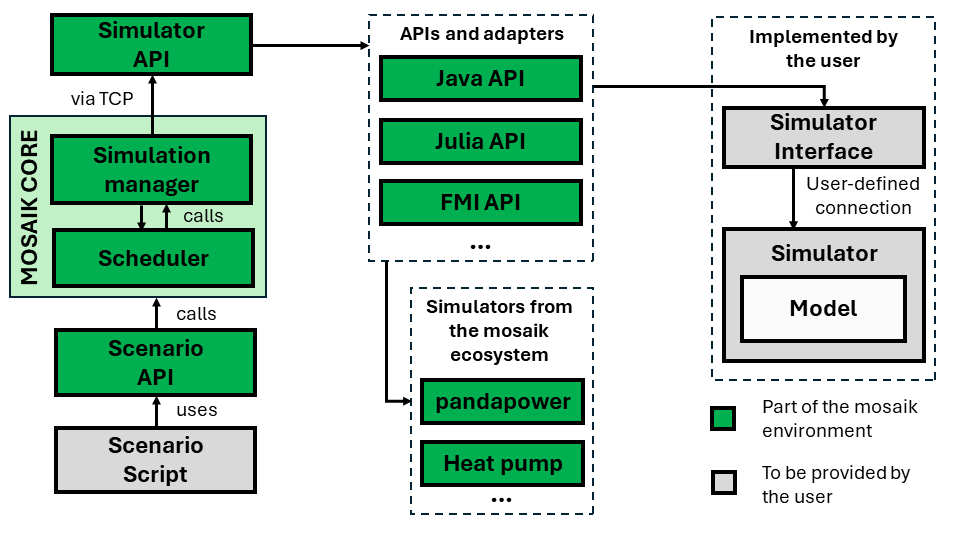
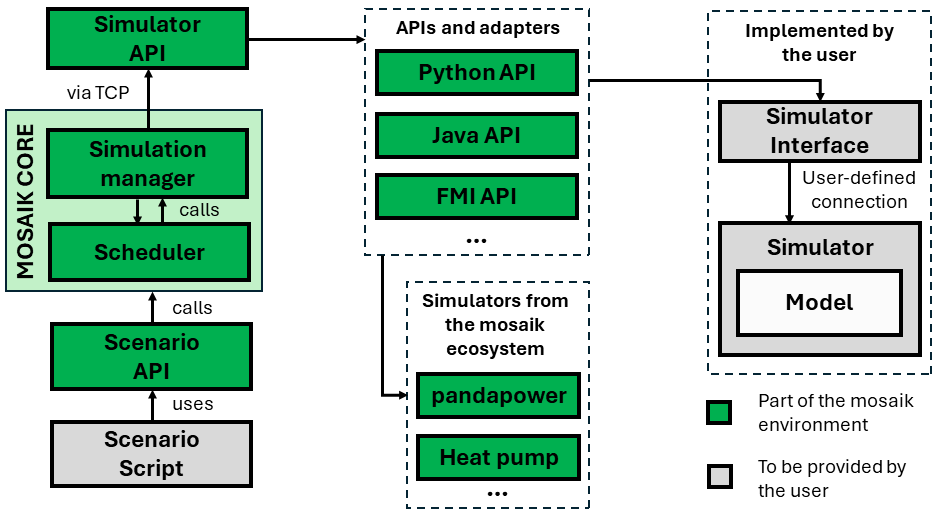
first round of changes

Changed region(s): [[0.0, 0.0, 1.0, 0.9808], [0.7436, 0.8582, 0.9915, 0.9502]]

diff --git a/docs/overview.rst b/docs/overview.rst
@@ -148,30 +148,32 @@ a co-simulation framework:
 
 Mosaik System Architecture
 ==========================
+After taking a look at the components that make up mosaik, we now move on to the overall architecture in which these components are placed.
+An overview is provided below.
 
 .. image:: _static/mosaik_overview.png
    :width: 100%
    :align: center
    :alt: mosaik
 
-After taking a look at the components that make up mosaik, we now move on to the overall architecture in which these components are placed.
-The mosaik co-simulation architecture can be divided into three parts: the core framework, 
-the set of adapters, and additional utility software.
+
+The mosaik co-simulation architecture can be divided into two parts: the core framework as one part and
+the set of APIs and built-in simulators as the other.
 
 The core provides the basic co-simulation functionality 
 via a set of interconnected modules, the central two being the simulation manager and the scheduler modules. 
-The simulation manager is responsible for setting up and maintaining the connections between mosaik and the simulators. 
-The scheduler, on the other hand, coordinates the data exchange between the simulators during runtime. 
-A simulator is always an independently executable piece of software that implements a simulation model. 
-
-For user interaction with mosaik, two APIs are provided. 
-The simulator API has to be used to establish an interface between mosaik and a simulator that was implemented by the user. 
-It specifies the socket connection used for data exchange and outlines what kind of data the simulator has to accept and provide.
-The scenario API, on the other hand, allows users to set up executable co-simulation scenarios 
+For user interaction with this mosaik core, two APIs are provided. 
+The scenario API, on the one hand, allows users to set up executable co-simulation scenarios 
 by specifying which simulators are to be used and how they should be parameterized and interconnected
 with each other. 
+On the other hand, the simulator API has to be used to establish an interface between mosaik and a simulator that was implemented by the user. 
+It specifies the socket connection used for data exchange and outlines what kind of data the simulator has to accept and provide.
+If the users plans on 
+
+The simulator API can be accessed by using any of the high-level APIs of the aforementioned set of APIs, for example the python API or the FMI API.
+Furthermore, users can also use any of the included, pre-built simulator that mosaik includes, such as the pandapower simulator. 
+A list of accessable APIs and simulators can be found :doc:`here<mosaik ecosystem>`.
 
 During execution, a scenario script employs the functionalities of the sim-manager and the scheduler. 
-An overview of the mosaik core architecture is provided below.
 
 :doc:`Read more … <scheduler>`
